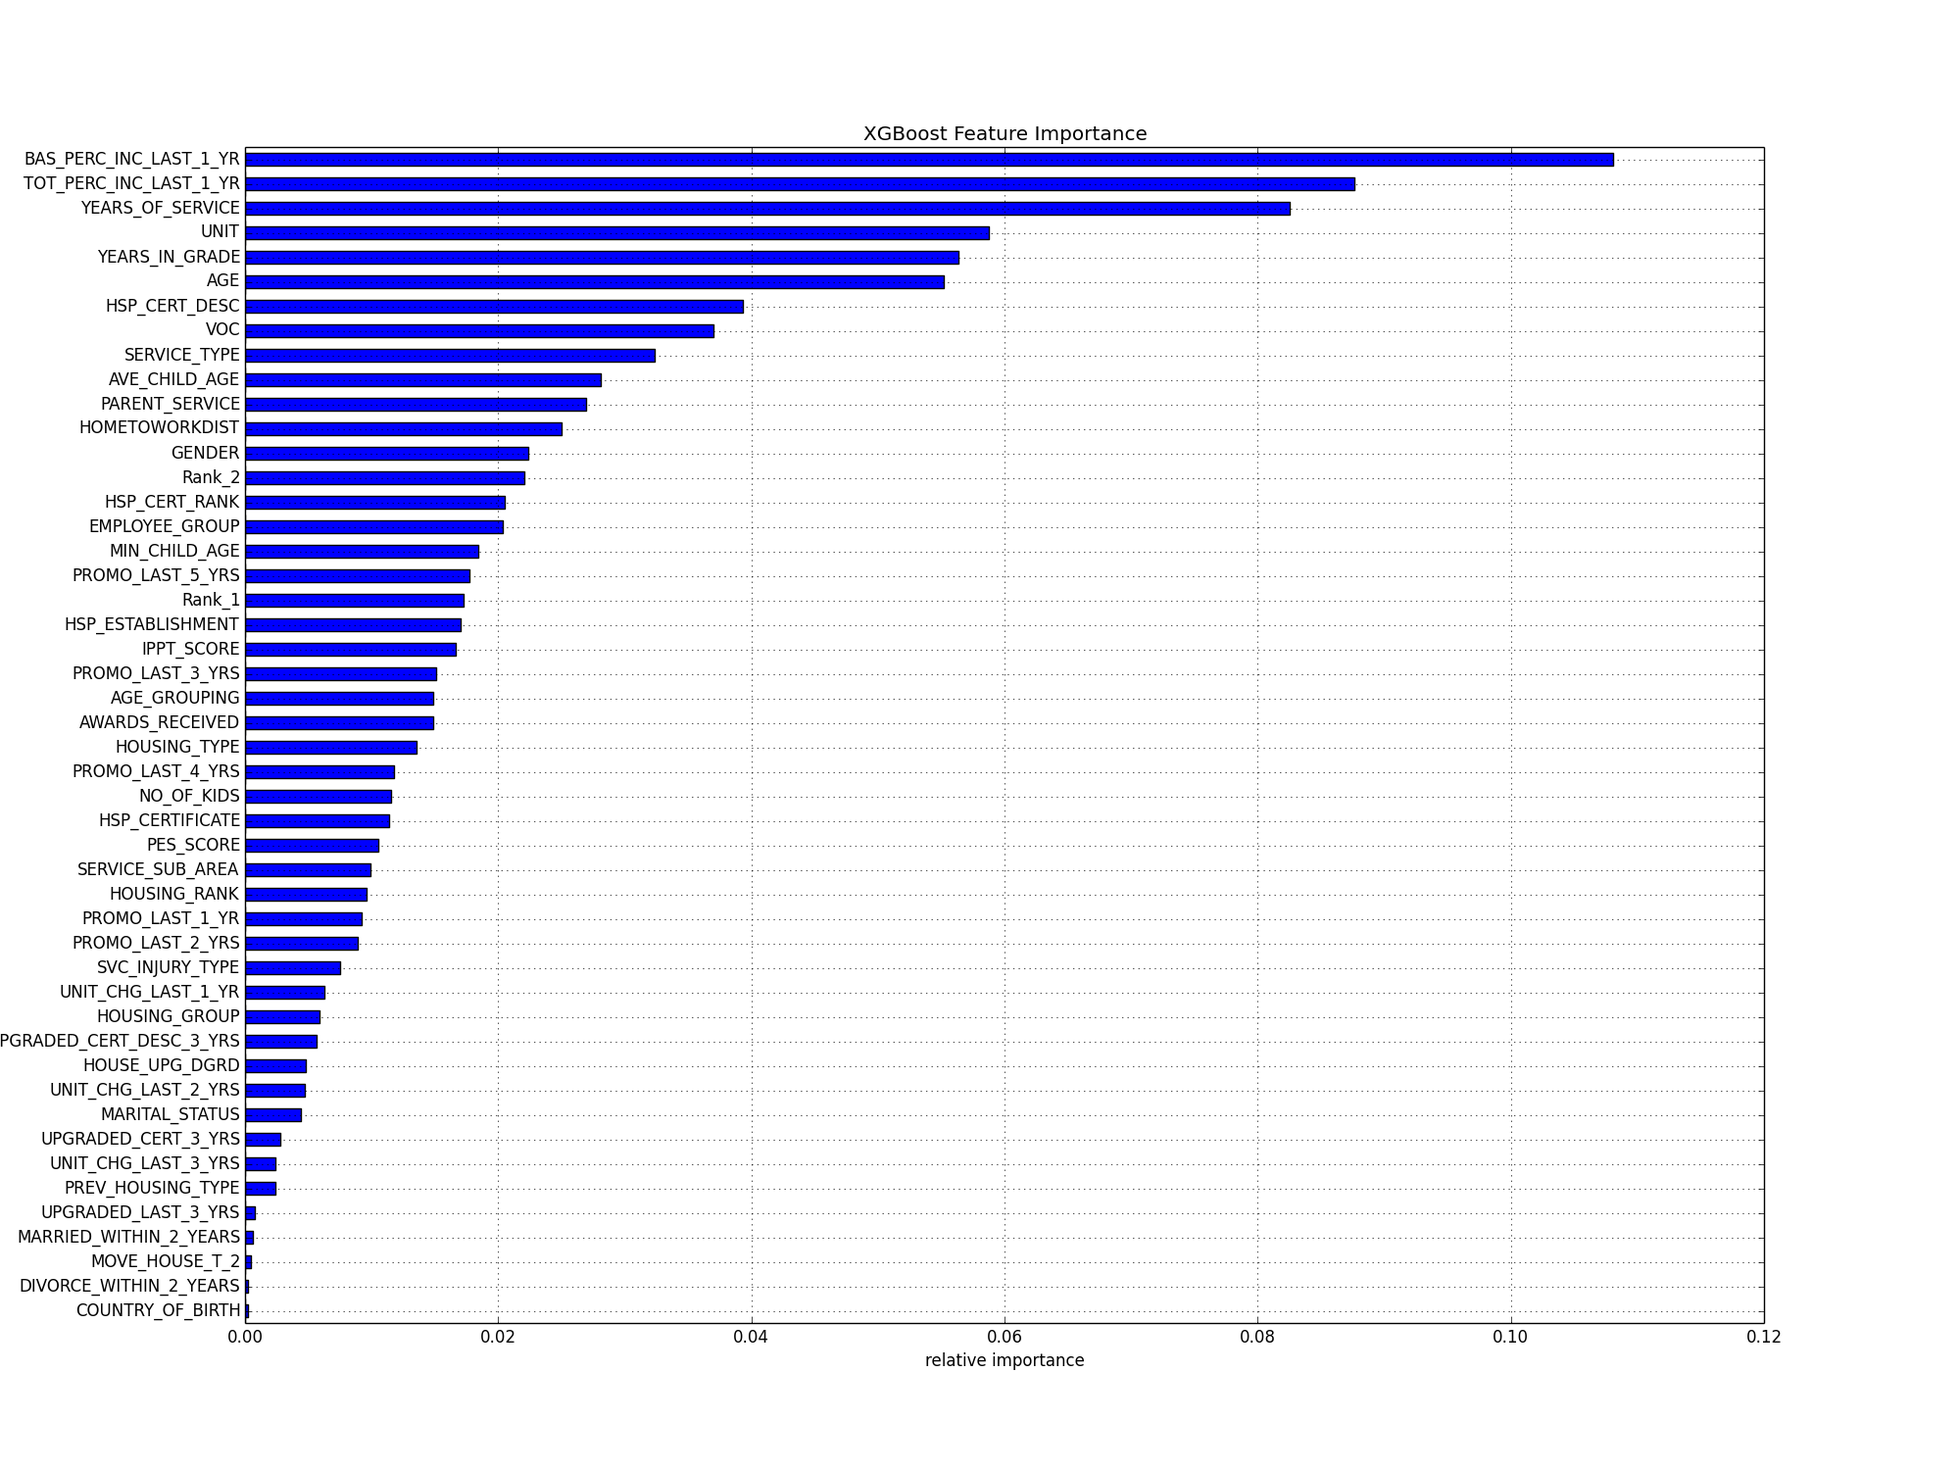
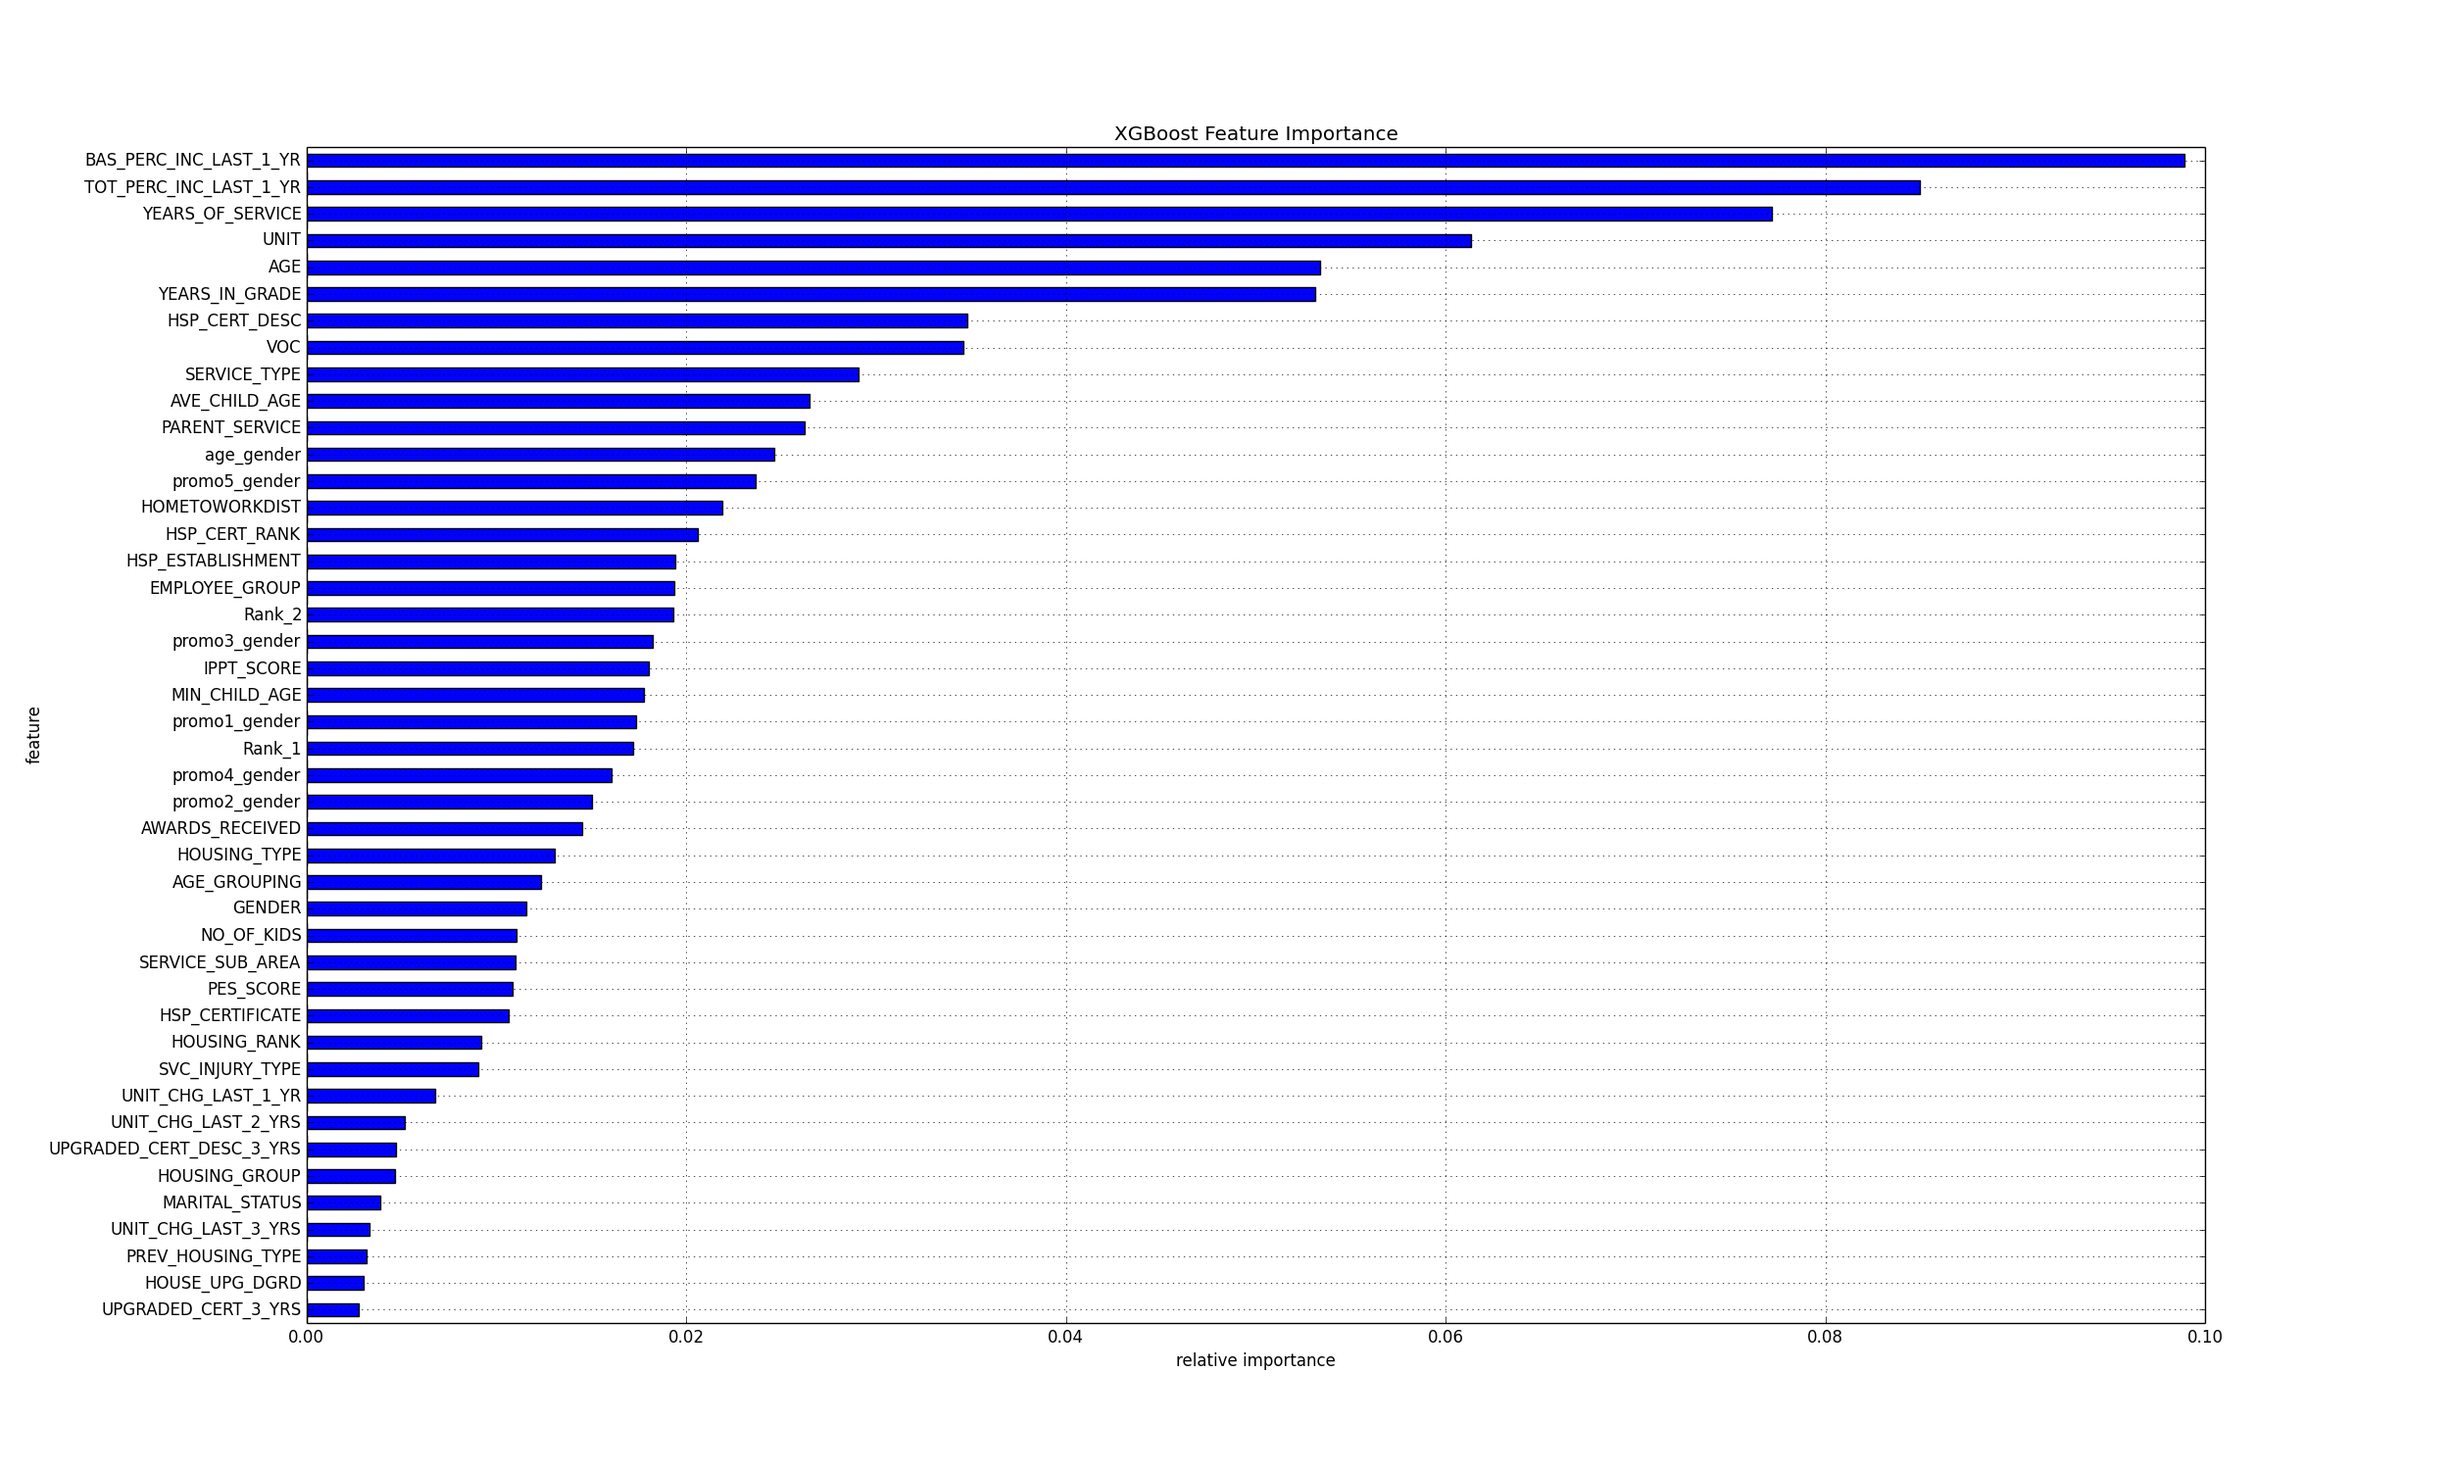
Salary capped at 101% - 0.0170703

diff --git a/classify-xgb-native.py b/classify-xgb-native.py
@@ -112,11 +112,11 @@ test['Rank_2'] = test['RANK_GROUPING'].apply(lambda x: x.split(' ')[1] if len(x.
 features = features + ['Rank_1', 'Rank_2']
 features_non_numeric = features_non_numeric + ['Rank_1', 'Rank_2']
 
-# # Salary increment. Max to set = 300. It doesn't matter anyone getting more than this or not.
-train['TOT_PERC_INC_LAST_1_YR'] = train['TOT_PERC_INC_LAST_1_YR'].apply(lambda x: 300 if x > 300 else x)
-test['TOT_PERC_INC_LAST_1_YR'] = test['TOT_PERC_INC_LAST_1_YR'].apply(lambda x: 300 if x > 300 else x)
-train['BAS_PERC_INC_LAST_1_YR'] = train['BAS_PERC_INC_LAST_1_YR'].apply(lambda x: 300 if x > 300 else x)
-test['BAS_PERC_INC_LAST_1_YR'] = test['BAS_PERC_INC_LAST_1_YR'].apply(lambda x: 300 if x > 300 else x)
+# # Salary increment. Max to set = 101. It doesn't matter anyone getting more than this or not.
+train['TOT_PERC_INC_LAST_1_YR'] = train['TOT_PERC_INC_LAST_1_YR'].apply(lambda x: 101 if x > 101 else x)
+test['TOT_PERC_INC_LAST_1_YR'] = test['TOT_PERC_INC_LAST_1_YR'].apply(lambda x: 101 if x > 101 else x)
+train['BAS_PERC_INC_LAST_1_YR'] = train['BAS_PERC_INC_LAST_1_YR'].apply(lambda x: 101 if x > 101 else x)
+test['BAS_PERC_INC_LAST_1_YR'] = test['BAS_PERC_INC_LAST_1_YR'].apply(lambda x: 101 if x > 101 else x)
 
 # train['HOMETOWORKDIST'] = train['HOMETOWORKDIST'].apply(lambda x: 18 if x == 0 else x)
 # test['HOMETOWORKDIST'] = test['HOMETOWORKDIST'].apply(lambda x: 18 if x == 0 else x)
@@ -234,7 +234,7 @@ if not sample: # Export result
       # Plotitup
       plt.figure()
       df.plot()
-      df.plot(kind='barh', x='feature', y='fscore', legend=False, figsize=(20, 15))
+      df.plot(kind='barh', x='feature', y='fscore', legend=False, figsize=(25, 15))
       plt.title('XGBoost Feature Importance')
       plt.xlabel('relative importance')
       plt.gcf().savefig('Feature_Importance_xgb.png')

diff --git a/README.md b/README.md
@@ -1,6 +1,6 @@
 Native XGBoost just dominated everything.
 
-1) 0.0171364
+1) Public Leader Board 0.0171364
 $ python classify-xgb-native.py # 990r depth6
 0.0155765992602
 0.019516592639
@@ -8,9 +8,9 @@ $ python classify-xgb-native.py # 990r depth6
 0.0141124661651
 0.014303086534
 Results: [0.015576599260152162, 0.019516592638969554, 0.0098859007465472819, 0.014112466165067009, 0.014303086534016464]
-Mean: 0.014678929069
+Mean: 0.014678929069 (Local Score)
 
-2) 0.0172253
+2) Public Leader Board 0.0172253
 $ python classify-xgb-native.py # 180r
 0.0157726389016
 0.0201645979107
@@ -18,9 +18,9 @@ $ python classify-xgb-native.py # 180r
 0.013888759618
 0.0139117869773
 Results: [0.01577263890161577, 0.020164597910677044, 0.0095532522596954699, 0.013888759618006124, 0.013911786977273863]
-Mean: 0.0146582071335
+Mean: 0.0146582071335 (Local Score)
 
-3) 0.0171475
+3) Public Leader Board 0.0171475
 $ python classify-xgb-native.py #added age_gender, rm a bunch of features
 0.015551655811
 0.019148557532
@@ -28,9 +28,9 @@ $ python classify-xgb-native.py #added age_gender, rm a bunch of features
 0.0139233429833
 0.0139280448029
 Results: [0.015551655810998924, 0.019148557531997155, 0.0096538953422591212, 0.013923342983307932, 0.013928044802880669]
-Mean: 0.0144410992943
+Mean: 0.0144410992943 (Local Score)
 
-4) 0.0171112
+4) Public Leader Board 0.0171112
 $ python classify-xgb-native.py # promo - gender
 0.0155083548415
 0.0189263516813
@@ -38,4 +38,14 @@ $ python classify-xgb-native.py # promo - gender
 0.0140093232169
 0.014178032663
 Results: [0.015508354841467287, 0.018926351681337099, 0.0095178250406324112, 0.01400932321688471, 0.014178032663031151]
-Mean: 0.0144279774887
+Mean: 0.0144279774887 (Local Score)
+
+5) Public Leader Board 0.0170703
+$ python classify-xgb-native.py # cap salary 101%
+0.0153414063482
+0.0189991328711
+0.00959486331913
+0.0139794582592
+0.0140253377611
+Results: [0.01534140634816232, 0.018999132871067075, 0.0095948633191300595, 0.013979458259173684, 0.014025337761100839]
+Mean: 0.0143880397117 (Local Score)
